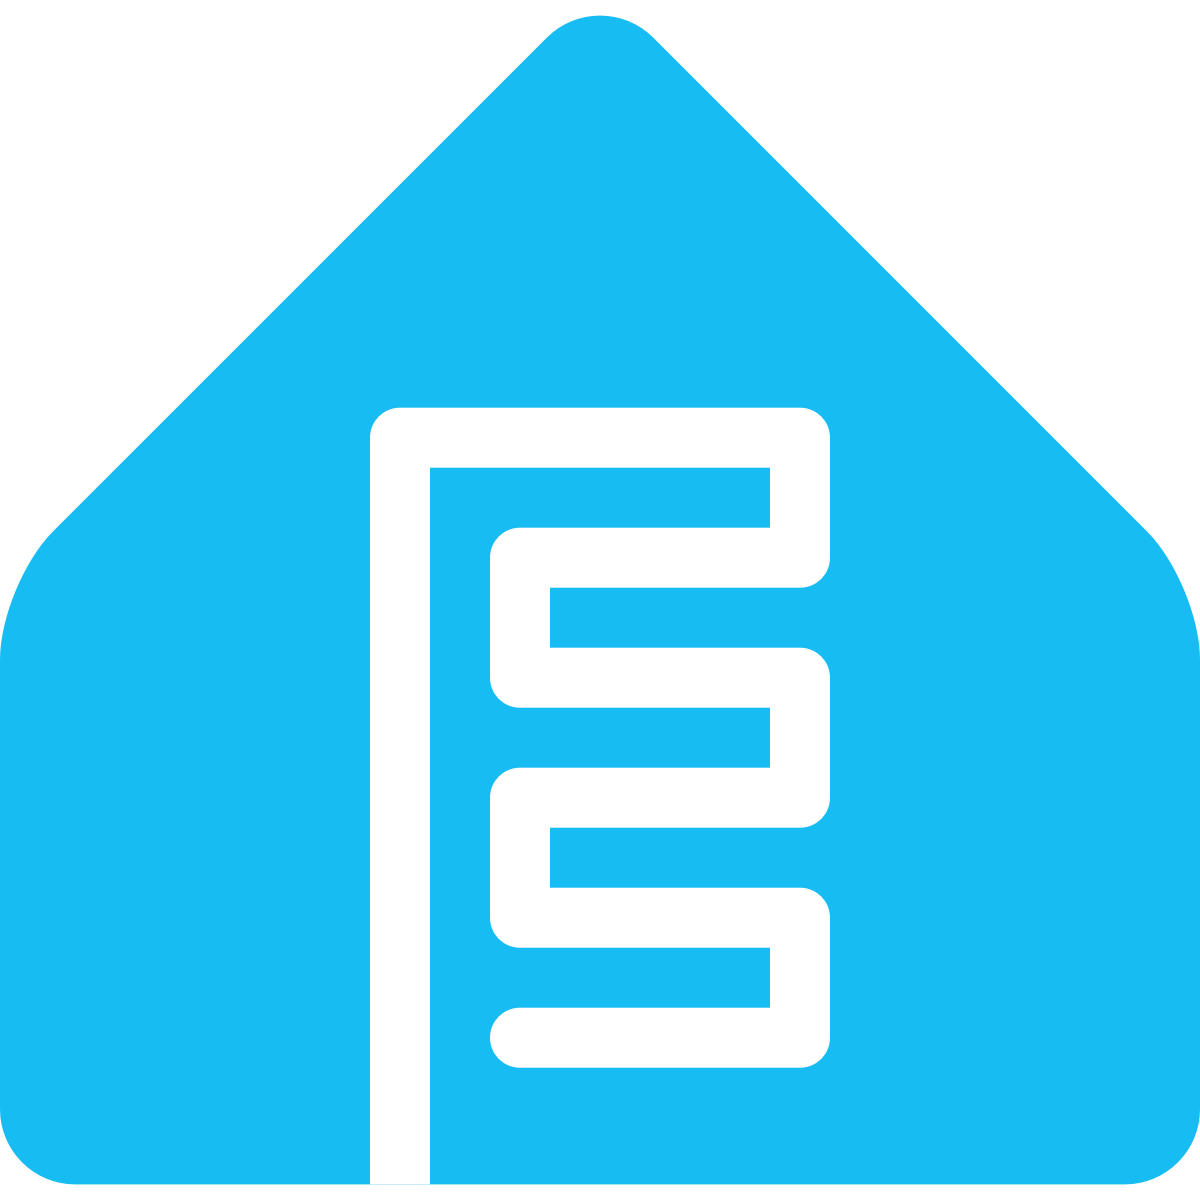
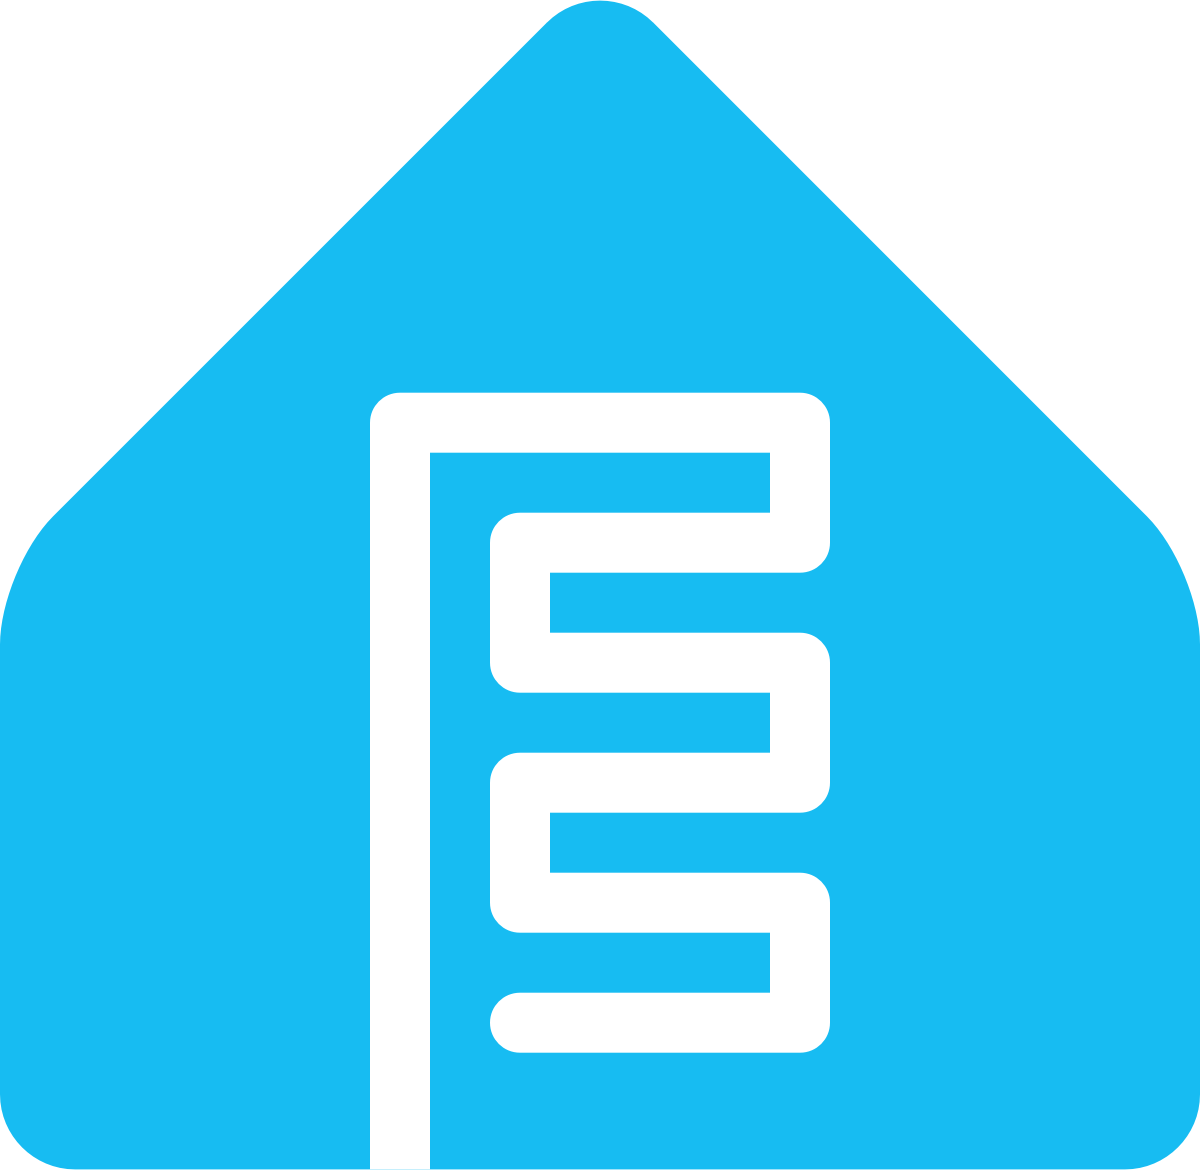
chore: the spotlight and launch-post mark is sized to match the other drivers'

diff --git a/resources/drivercentral/banners/spotlight-4096x848.html b/resources/drivercentral/banners/spotlight-4096x848.html
@@ -20,7 +20,7 @@
   .chip.line { color: #fff; border: 2px solid rgba(255,255,255,0.35); background: rgba(255,255,255,0.04); font-weight: 500; }
   .sub { position: absolute; left: 104px; top: 334px; color: #c3c8d2; font-size: 34px; font-weight: 400; letter-spacing: -0.005em; white-space: nowrap; }
   .sub em { font-style: normal; color: #fff; font-weight: 600; }
-  .mark { position: absolute; left: 1560px; top: 62px; width: 300px; height: 300px; object-fit: contain; filter: drop-shadow(0 18px 40px rgba(0,0,0,0.45)); }
+  .mark { position: absolute; left: 1604px; top: 108px; width: 213px; height: 207px; object-fit: contain; filter: drop-shadow(0 18px 40px rgba(0,0,0,0.45)); }
 </style></head>
 <body>
 <div class="dots"></div>

diff --git a/resources/drivercentral/banners/launch-post-2400x1200.html b/resources/drivercentral/banners/launch-post-2400x1200.html
@@ -21,7 +21,7 @@
   .chip.line { color: #fff; border: 1.5px solid rgba(255,255,255,0.35); background: rgba(255,255,255,0.04); font-weight: 500; }
   .sub { margin: 32px 0 0 2px; color: #c3c8d2; font-size: 24px; line-height: 1.4; font-weight: 400; letter-spacing: -0.005em; }
   .sub em { font-style: normal; color: #fff; font-weight: 600; }
-  .mark { position: absolute; left: 814px; top: 180px; width: 240px; height: 240px; object-fit: contain; filter: drop-shadow(0 14px 32px rgba(0,0,0,0.45)); }
+  .mark { position: absolute; left: 849px; top: 217px; width: 170px; height: 166px; object-fit: contain; filter: drop-shadow(0 14px 32px rgba(0,0,0,0.45)); }
 </style></head>
 <body>
 <div class="dots"></div>
